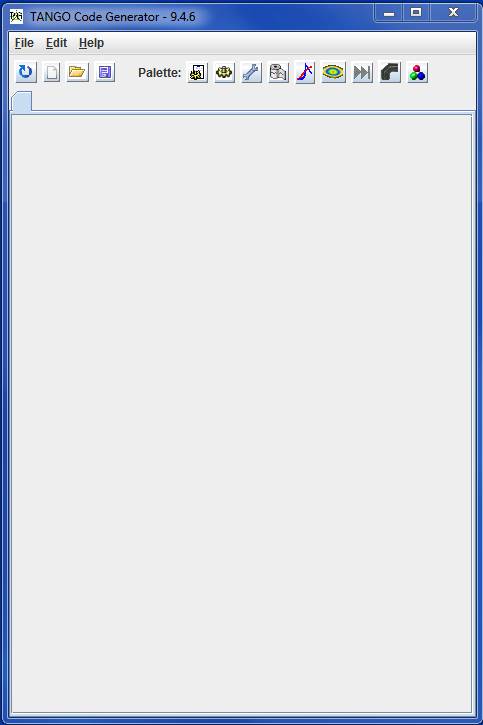
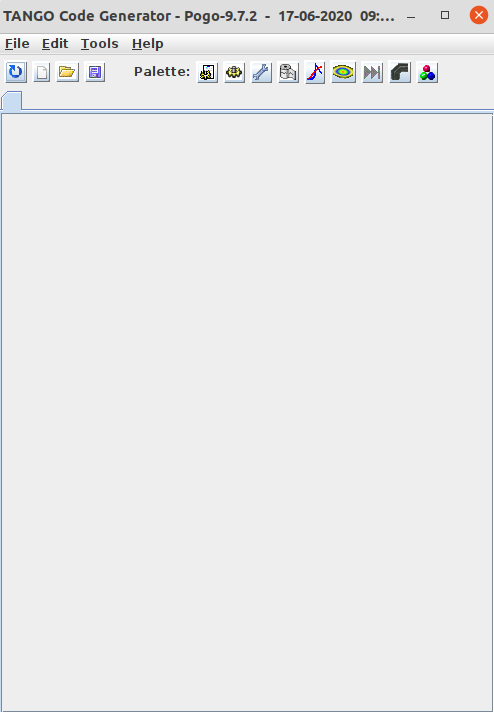
Update: Pogo screenshots

Changed region(s): [[0.0, 0.0, 1.0, 1.0]]

diff --git a/source/tools-and-extensions/built-in/pogo/packaging.rst b/source/tools-and-extensions/built-in/pogo/packaging.rst
@@ -28,7 +28,7 @@ You can use :program:`autotools` commands (:command:`autogen`, :command:`configu
 
 |image2|
 
-.. |image0| image:: img/PogoPackaging.gif
+.. |image0| image:: img/Pogo-packaging.png
 
 .. |image1| image:: img/configure1.gif
 

diff --git a/source/tools-and-extensions/built-in/pogo/dynamic_attr.rst b/source/tools-and-extensions/built-in/pogo/dynamic_attr.rst
@@ -17,6 +17,6 @@ For instance during a command execution or with an external trig.
 
 |image1|
 
-.. |image0| image:: img/DynamicAttr.jpg
+.. |image0| image:: img/DynamicAttr.png
 
 .. |image1| image:: img/DynamicAttr-3.jpg
